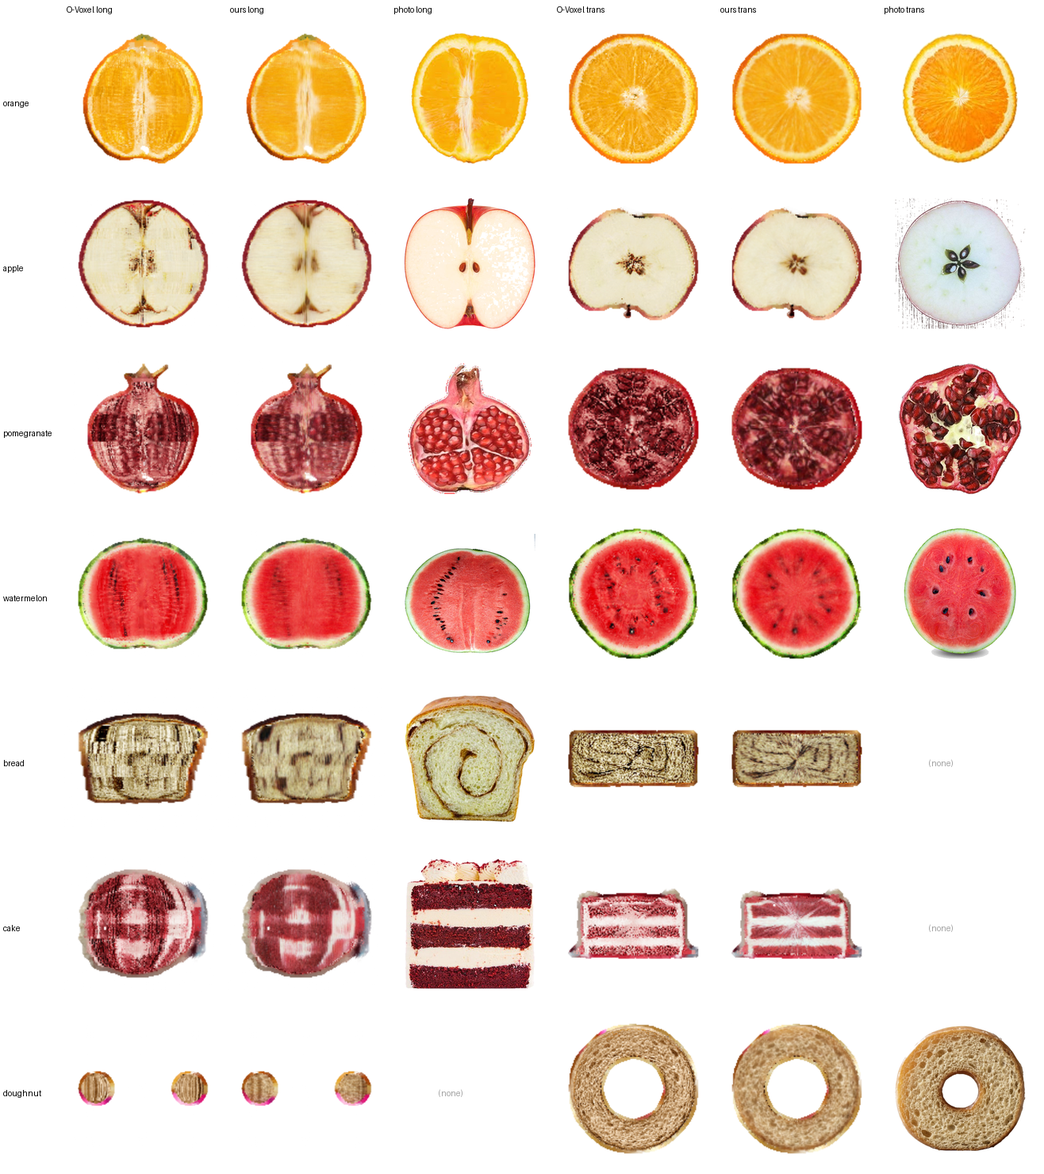
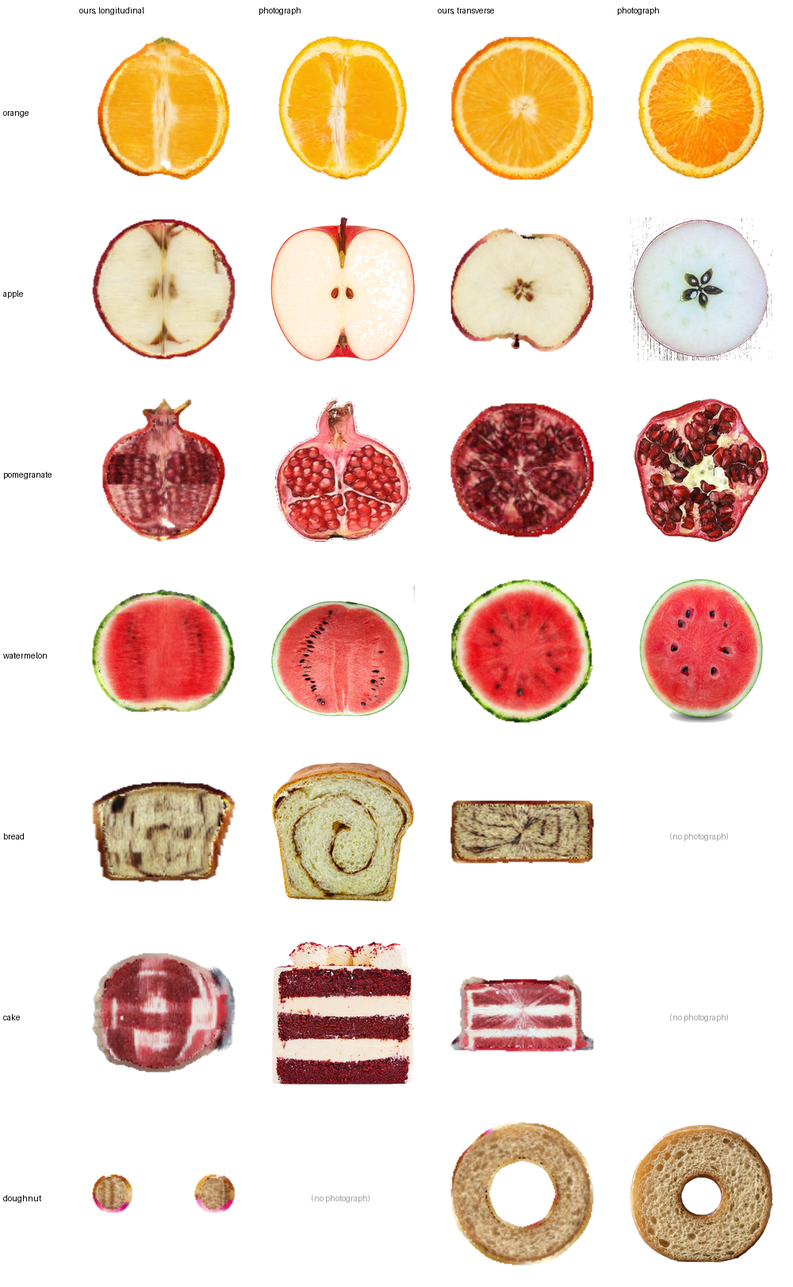
3dfusion: the pipeline as states of the orange's arrays; the seven-object figure without the carrier

diff --git a/3dfusion.html b/3dfusion.html
@@ -173,7 +173,7 @@ On held-out photographs the priors never saw, the lifted orange scores 0.112&nbs
 
 <h2 id="method">3&ensp;Method</h2>
 
-<p class="lead">Figure&nbsp;2 is the whole of it. The carrier is fitted first (section&nbsp;3.1, restated from the superseded paper). Its interior is then sampled anew from a product of two single-image diffusion priors on a cylindrical state, with the carrier&#8217;s layout and shell as data terms (sections&nbsp;3.2&ndash;3.4), and written back into the carrier&#8217;s cells (section&nbsp;3.5). The cut operator and the solver interface are the carrier&#8217;s and are not touched.</p>
+<p class="lead">Figure&nbsp;2 is the whole of it, and Figure&nbsp;3 is the same pipeline as the states of one object&#8217;s arrays. The carrier is fitted first (section&nbsp;3.1, restated from the superseded paper). Its interior is then sampled anew from a product of two single-image diffusion priors on a cylindrical state, with the carrier&#8217;s layout and shell as data terms (sections&nbsp;3.2&ndash;3.4), and written back into the carrier&#8217;s cells (section&nbsp;3.5). The cut operator and the solver interface are the carrier&#8217;s and are not touched.</p>
 
 <figure class="flow" style="margin:16px 0 26px">
 <svg viewBox="0 0 960 520" xmlns="http://www.w3.org/2000/svg" font-family="Charter,Georgia,serif" font-size="13" role="img" aria-label="the pipeline: two photograph families become two single-image priors; the carrier is fitted and sampled into a cylindrical state; one chain denoises both families on that state and writes the interior back into the lattice, which is cut in closed form">
@@ -244,6 +244,11 @@ On held-out photographs the priors never saw, the lifted orange scores 0.112&nbs
 <figcaption><span class="fnum">Figure 2</span><br><strong>The pipeline.</strong> Two photograph families become two single-image priors, the longitudinal one on canonical-frame images and the transverse one on polar strips. The carrier is fitted first and sampled into one cylindrical state with its interior mask. One reverse chain then denoises both families on that same state: each family reads its exact slices, the two clean estimates are combined by the radius rule of equation&nbsp;(6), the carrier&#8217;s low-pass is pinned on the longitudinal planes and its shell is never written, and the state is re-noised for the next step. At the end the interior is written into the carrier&#8217;s cells once, gated by measurement, and read by the carrier&#8217;s own closed-form cut.</figcaption>
 </figure>
 
+<figure style="margin:16px 0 26px">
+  <img src="assets/x3d_states.png" style="width:100%;border-radius:4px" alt="the pipeline as states of the orange's own arrays: photograph, carrier, noised state, each family's estimate, the other family's estimate on the same plane, the combined estimate, the final, and the lattice read back">
+  <figcaption><span class="fnum">Figure 3</span><br><strong>The pipeline as states of the orange&#8217;s own arrays.</strong> Top, one longitudinal plane; bottom, one transverse plane as the polar strip the transverse prior works on. <strong>(a)</strong> a training photograph, canonical and unwrapped; <strong>(b)</strong> the carrier sampled into the cylinder &mdash; the block tiling is visible; <strong>(c)</strong> the state noised to \(t_0=0.3\,T\), the outside under the same noise; <strong>(d)</strong> at one step of the chain, each family&#8217;s own clean estimate; <strong>(e)</strong> the other family&#8217;s estimate read on the same plane &mdash; the two agree on layout and colour and differ in what each can see, the columella above, the membranes below; <strong>(f)</strong> the combination of equation&nbsp;(6) with the carrier&#8217;s low-pass pinned and its shell kept; <strong>(g)</strong> the final state; <strong>(h)</strong> the interior written into the lattice cells once and read back through the carrier&#8217;s own sampling, the transverse one as the disc a cut would show.</figcaption>
+</figure>
+
 <h3>3.0&ensp;Notation</h3>
 
 <div class="tw"><table>
@@ -287,11 +292,11 @@ $$ \mathcal{L} = \sum_{j}
 
 <p>with the nominal depth of every plane replaced by a random variable so that the supervised supports union to a slab, and \(\mathcal{L}_{\mathrm{sec}}\) an SSIM, pixel and band-distribution term over crops inside the face&#8217;s own silhouette. No perceptual network enters the objective. What this fits is exactly what section&nbsp;3.2 keeps: the layout and colour of the interior, the skin, and a texture that is an average over specimens on the supervised planes and a block-tiled average between them.</p>
 
-<p><strong>Closed-form planar cutting.</strong> Cells crossed by a plane \(\Pi\) are selected in parallel by the separating-axis test, \(\mathcal{B} = \{ i : |\mathbf{n}^\top\mathbf{c}_i + d| \le \tfrac{1}{2}h\sum_a|n_a| \}\); within each, the twelve cell edges straddling the plane are solved for their exact roots, \(\mathbf{v}_e = \mathbf{a}_e + t_e(\mathbf{b}_e-\mathbf{a}_e)\), \(t_e = -(\mathbf{n}^\top\mathbf{a}_e + d)/\mathbf{n}^\top(\mathbf{b}_e-\mathbf{a}_e)\), sorted into one convex polygon per cell. Face-adjacent cells share their roots exactly, so the union is closed and 2-manifold (Proposition&nbsp;1 of the carrier paper), the cost is \(\mathcal{O}(|\mathcal{B}|)\) (Proposition&nbsp;2), and every vertex satisfies its plane equation to \(8.88\times10^{-16}\). Vertex colours come from equation&nbsp;(1); after section&nbsp;3.5 they come from the lifted interior through the same equation. Figure&nbsp;3 shows the operator&#8217;s four states on real data.</p>
+<p><strong>Closed-form planar cutting.</strong> Cells crossed by a plane \(\Pi\) are selected in parallel by the separating-axis test, \(\mathcal{B} = \{ i : |\mathbf{n}^\top\mathbf{c}_i + d| \le \tfrac{1}{2}h\sum_a|n_a| \}\); within each, the twelve cell edges straddling the plane are solved for their exact roots, \(\mathbf{v}_e = \mathbf{a}_e + t_e(\mathbf{b}_e-\mathbf{a}_e)\), \(t_e = -(\mathbf{n}^\top\mathbf{a}_e + d)/\mathbf{n}^\top(\mathbf{b}_e-\mathbf{a}_e)\), sorted into one convex polygon per cell. Face-adjacent cells share their roots exactly, so the union is closed and 2-manifold (Proposition&nbsp;1 of the carrier paper), the cost is \(\mathcal{O}(|\mathcal{B}|)\) (Proposition&nbsp;2), and every vertex satisfies its plane equation to \(8.88\times10^{-16}\). Vertex colours come from equation&nbsp;(1); after section&nbsp;3.5 they come from the lifted interior through the same equation. Figure&nbsp;4 shows the operator&#8217;s four states on real data.</p>
 
 <figure style="margin:16px 0 26px">
   <img src="assets/cutstates.jpg?v=s_v2" style="width:100%;border-radius:4px" alt="the planar cut as four states of the lattice">
-  <figcaption><span class="fnum">Figure 3</span><br><strong>The carrier&#8217;s cut, as four states of its own lattice.</strong> <strong>(a)</strong> the plane against 770,182 solid cells, of which 17,855 satisfy the crossing test; <strong>(b)</strong> one crossed cell, its twelve edges, the roots and the convex polygon they bound; <strong>(c)</strong> the sign field over one slice, labelled into two components; <strong>(d)</strong> the exposed face, coloured by the interior field. This operator is untouched by the rest of the paper; what changes is the colour it reads.</figcaption>
+  <figcaption><span class="fnum">Figure 4</span><br><strong>The carrier&#8217;s cut, as four states of its own lattice.</strong> <strong>(a)</strong> the plane against 770,182 solid cells, of which 17,855 satisfy the crossing test; <strong>(b)</strong> one crossed cell, its twelve edges, the roots and the convex polygon they bound; <strong>(c)</strong> the sign field over one slice, labelled into two components; <strong>(d)</strong> the exposed face, coloured by the interior field. This operator is untouched by the rest of the paper; what changes is the colour it reads.</figcaption>
 </figure>
 
 <h3>3.2&ensp;The interior prior: a product of two single-image priors over slices</h3>
@@ -318,7 +323,7 @@ $$ \nabla_{x}\log p_t(x_t)\;\approx\;\sum_{k} S_{\varphi_k}^{\!\top}\, s_L\!\big
 
 <figure style="margin:16px 0 26px">
   <img src="assets/x3d_polar.png" style="width:100%;border-radius:4px" alt="a transverse photograph and its polar unwrap; the segment membranes become parallel vertical stripes">
-  <figcaption><span class="fnum">Figure 4</span><br><strong>Why polar.</strong> A transverse photograph and its unwrap into \((r,\varphi)\), rows \(r\) from the axis outward, columns \(\varphi\). The segment membranes &mdash; thin radial lines whose organisation is global and beyond any patch in Cartesian coordinates &mdash; are a row of parallel stripes here, and the rind is a horizontal band. The transverse prior is trained on these strips (Figure&nbsp;4); the wrap-around in \(\varphi\) is a free and exact augmentation.</figcaption>
+  <figcaption><span class="fnum">Figure 5</span><br><strong>Why polar.</strong> A transverse photograph and its unwrap into \((r,\varphi)\), rows \(r\) from the axis outward, columns \(\varphi\). The segment membranes &mdash; thin radial lines whose organisation is global and beyond any patch in Cartesian coordinates &mdash; are a row of parallel stripes here, and the rind is a horizontal band. The transverse prior is trained on these strips (Figure&nbsp;5); the wrap-around in \(\varphi\) is a free and exact augmentation.</figcaption>
 </figure>
 
 <p><strong>One step.</strong> At level \(t\), each family predicts its noise on every one of its planes and hence its clean estimate, \(\hat x_0^L = (x_t - \sqrt{1-\bar\alpha_t}\,\epsilon_L)/\sqrt{\bar\alpha_t}\) assembled from the longitudinal slices and \(\hat x_0^T\) from the transverse ones. The product prior&#8217;s step is one line,</p>
@@ -330,7 +335,7 @@ $$ \hat x_0 \;=\; w(r)\,\hat x_0^{L} \;+\; \big(1-w(r)\big)\,\hat x_0^{T},
 
 <p>the longitudinal family leading at the axis, where it sees the columella as a continuous strip and the transverse family sees only a disc, and the transverse family leading away from it, where it sees the membranes as stripes and the longitudinal family sees them edge-on. \(R_0 = 0.15\,E\), \(w_\infty = 0.1\); both are read off the sweeps of section&nbsp;4.2 and are the same for every object. The state is then re-noised deterministically&nbsp;[68] with the noise direction consistent with the combined estimate, \(\bar\epsilon = (x_t - \sqrt{\bar\alpha_t}\,\hat x_0)/\sqrt{1-\bar\alpha_t}\), \(x_{t'} = \sqrt{\bar\alpha_{t'}}\,\hat x_0 + \sqrt{1-\bar\alpha_{t'}}\,\bar\epsilon\).</p>
 
-<p><strong>Data terms.</strong> The carrier supplies two things the patch prior cannot. Its shell is observed and is never written: outside the interior mask the state is the carrier&#8217;s value under the forward noise of the current level, with one fixed noise draw, so every plane looks like a properly noised image and the interior is generated against a true boundary&nbsp;[77]. Its layout &mdash; the columella&#8217;s position, the pith band, the colour &mdash; is pinned by ILVR&nbsp;[69] on every longitudinal plane at every step: \(\hat x_0 \leftarrow \hat x_0 - \Phi_\sigma(\hat x_0) + \Phi_\sigma(A^{\mathrm{carrier}})\) with \(\sigma = 16\) px, which is above the 4&ndash;8 px scale of the carrier&#8217;s block tiling and below that of anything the prior is asked to generate. A patch prior has no global layout of its own &mdash; from 90% noise it makes blobs (Figure&nbsp;6) &mdash; and this is where the layout comes from; it is also why the chain starts at \(t_0 = 0.3\,T\) rather than from noise: the less of the carrier&#8217;s structure the prior is asked to reinvent, the better (section&nbsp;4.2).</p>
+<p><strong>Data terms.</strong> The carrier supplies two things the patch prior cannot. Its shell is observed and is never written: outside the interior mask the state is the carrier&#8217;s value under the forward noise of the current level, with one fixed noise draw, so every plane looks like a properly noised image and the interior is generated against a true boundary&nbsp;[77]. Its layout &mdash; the columella&#8217;s position, the pith band, the colour &mdash; is pinned by ILVR&nbsp;[69] on every longitudinal plane at every step: \(\hat x_0 \leftarrow \hat x_0 - \Phi_\sigma(\hat x_0) + \Phi_\sigma(A^{\mathrm{carrier}})\) with \(\sigma = 16\) px, which is above the 4&ndash;8 px scale of the carrier&#8217;s block tiling and below that of anything the prior is asked to generate. A patch prior has no global layout of its own &mdash; from 90% noise it makes blobs (Figure&nbsp;7) &mdash; and this is where the layout comes from; it is also why the chain starts at \(t_0 = 0.3\,T\) rather than from noise: the less of the carrier&#8217;s structure the prior is asked to reinvent, the better (section&nbsp;4.2).</p>
 
 <div class="tw" style="font-family:ui-monospace,Menlo,monospace;font-size:13px;line-height:1.55;border:1px solid var(--line);border-radius:4px;padding:14px 16px;margin:18px 0">
 <strong style="font-family:inherit">Algorithm 1</strong>&ensp;The interior from two cut families<br>
@@ -374,11 +379,11 @@ $$ \hat x_0 \;=\; w(r)\,\hat x_0^{L} \;+\; \big(1-w(r)\big)\,\hat x_0^{T},
 <tr><td><strong>the cylinder, section 3.3</strong></td><td class="win">0.112</td><td class="win">0.062</td><td class="win">0.087</td></tr>
 </tbody></table></div>
 
-<p>Table&nbsp;1 is the comparison. The cylinder is below the carrier on both faces and the mean, with honest unconditional priors and nothing copied; the colour of its flesh is the photographs&#8217; (value 0.962 against 0.961), its horizontal banding is below the photographs&#8217; (0.0068 against 0.0079; the carrier 0.0123), and it has no block tiling. Every Cartesian arm is above the carrier. Figure&nbsp;5 shows the faces the numbers are distances between.</p>
+<p>Table&nbsp;1 is the comparison. The cylinder is below the carrier on both faces and the mean, with honest unconditional priors and nothing copied; the colour of its flesh is the photographs&#8217; (value 0.962 against 0.961), its horizontal banding is below the photographs&#8217; (0.0068 against 0.0079; the carrier 0.0123), and it has no block tiling. Every Cartesian arm is above the carrier. Figure&nbsp;6 shows the faces the numbers are distances between.</p>
 
 <figure style="margin:16px 0 26px">
   <img src="assets/x3d_faces.png" style="width:100%;border-radius:4px" alt="transverse and longitudinal faces: the carrier, the lift with two prior lengths, a held-out photograph">
-  <figcaption><span class="fnum">Figure 5</span><br><strong>Cut faces in the photographs&#8217; canonical frame.</strong> Transverse above, longitudinal below: the carrier, the lift with the longitudinal prior at thirty thousand and at eight thousand steps, and a held-out photograph of a different orange. Segment membranes in the right number, a continuous columella, vesicle grain, the photographs&#8217; colour; faint streaks along \(z\) remain on the longitudinal face.</figcaption>
+  <figcaption><span class="fnum">Figure 6</span><br><strong>Cut faces in the photographs&#8217; canonical frame.</strong> Transverse above, longitudinal below: the carrier, the lift with the longitudinal prior at thirty thousand and at eight thousand steps, and a held-out photograph of a different orange. Segment membranes in the right number, a continuous columella, vesicle grain, the photographs&#8217; colour; faint streaks along \(z\) remain on the longitudinal face.</figcaption>
 </figure>
 
 <h3>4.2&ensp;Ablations, on the orange</h3>
@@ -399,25 +404,25 @@ $$ \hat x_0 \;=\; w(r)\,\hat x_0^{L} \;+\; \big(1-w(r)\big)\,\hat x_0^{T},
 <tr><td>the residual DC shrink: global mean offset / post-hoc low-pass swap / ILVR</td><td colspan="3" class="mut">over-corrects and clips / colour right, texture &minus;12% / colour right, texture kept</td><td>only the in-chain constraint keeps both</td></tr>
 </tbody></table></div>
 
-<p><strong>The starting noise has a floor and it is not zero.</strong> The honest longitudinal prior has no layout of its own: from 90% noise it draws orange blobs on white (Figure&nbsp;6), and everything global in the result comes from the carrier through the constraint of section&nbsp;3.3. The held-out distance therefore falls monotonically as \(t_0\) is lowered from 0.9 to 0.3, is flat from 0.3 to 0.1, and must turn back toward the carrier&#8217;s 0.113 as \(t_0\to0\). The prior is asked to add texture and local structure under a layout it did not make, and that is what it is good at.</p>
+<p><strong>The starting noise has a floor and it is not zero.</strong> The honest longitudinal prior has no layout of its own: from 90% noise it draws orange blobs on white (Figure&nbsp;7), and everything global in the result comes from the carrier through the constraint of section&nbsp;3.3. The held-out distance therefore falls monotonically as \(t_0\) is lowered from 0.9 to 0.3, is flat from 0.3 to 0.1, and must turn back toward the carrier&#8217;s 0.113 as \(t_0\to0\). The prior is asked to add texture and local structure under a layout it did not make, and that is what it is good at.</p>
 
 <figure style="margin:16px 0 26px">
   <img src="assets/x3d_long_8k_30k.png" style="width:100%;border-radius:4px" alt="the longitudinal prior alone, restoring a carrier slice from three noise levels, at 8k and 30k steps">
-  <figcaption><span class="fnum">Figure 6</span><br><strong>The longitudinal prior alone, in-plane.</strong> A carrier slice restored from 30%, 50% and 90% noise by the prior at eight and at thirty thousand steps. At 30&ndash;50% the longer prior draws segment walls and a crisp columella where the shorter draws mush; at 90% both collapse &mdash; a patch prior has no global layout, and the carrier is where the layout comes from.</figcaption>
+  <figcaption><span class="fnum">Figure 7</span><br><strong>The longitudinal prior alone, in-plane.</strong> A carrier slice restored from 30%, 50% and 90% noise by the prior at eight and at thirty thousand steps. At 30&ndash;50% the longer prior draws segment walls and a crisp columella where the shorter draws mush; at 90% both collapse &mdash; a patch prior has no global layout, and the carrier is where the layout comes from.</figcaption>
 </figure>
 
-<p><strong>Training length is a per-family choice.</strong> The longitudinal prior improves from 8k to 30k on every column. The polar prior goes the other way from 4k on: at 30k its transverse faces show segments in a fixed number at even spacing, the layout of its three strips memorised, and the held-out distance rises with every step (Figure&nbsp;7). Neither curve is the other&#8217;s, and a single training length for both would have hidden one of them.</p>
+<p><strong>Training length is a per-family choice.</strong> The longitudinal prior improves from 8k to 30k on every column. The polar prior goes the other way from 4k on: at 30k its transverse faces show segments in a fixed number at even spacing, the layout of its three strips memorised, and the held-out distance rises with every step (Figure&nbsp;8). Neither curve is the other&#8217;s, and a single training length for both would have hidden one of them.</p>
 
 <figure style="margin:16px 0 26px">
   <img src="assets/x3d_polar_overfit.png" style="width:100%;border-radius:4px" alt="transverse faces with the polar prior at 8k and at 30k steps, beside the carrier and a held-out photograph">
-  <figcaption><span class="fnum">Figure 7</span><br><strong>The polar prior overtrained.</strong> The carrier, the lift with the polar prior at eight and at thirty thousand steps, and a held-out photograph. At 30k the membranes are fixed in number and evenly spaced: the three training strips, reproduced.</figcaption>
+  <figcaption><span class="fnum">Figure 8</span><br><strong>The polar prior overtrained.</strong> The carrier, the lift with the polar prior at eight and at thirty thousand steps, and a held-out photograph. At 30k the membranes are fixed in number and evenly spaced: the three training strips, reproduced.</figcaption>
 </figure>
 
-<p><strong>A conditioned prior that was a copier.</strong> Before the cylinder, each family&#8217;s prior took the other family&#8217;s view as three extra input channels, degraded at training by a mild blur and noise. Figure&nbsp;8 is the test that should have been run first: fed its own input as the condition, every such prior reproduces it; fed zeros, every one collapses to noise blobs. The degradation was too weak and the answer leaked through the condition. Every transverse face that had looked right under those priors was the carrier&#8217;s own layout arriving through the condition channel &mdash; and in the Cartesian sampler, where the transverse condition came from the longitudinal family, the segment membranes vanished and no sync weight, radius rule or constraint could bring them back (Table&nbsp;2, the five Cartesian rows). The product of experts requires priors; a copier is not one.</p>
+<p><strong>A conditioned prior that was a copier.</strong> Before the cylinder, each family&#8217;s prior took the other family&#8217;s view as three extra input channels, degraded at training by a mild blur and noise. Figure&nbsp;9 is the test that should have been run first: fed its own input as the condition, every such prior reproduces it; fed zeros, every one collapses to noise blobs. The degradation was too weak and the answer leaked through the condition. Every transverse face that had looked right under those priors was the carrier&#8217;s own layout arriving through the condition channel &mdash; and in the Cartesian sampler, where the transverse condition came from the longitudinal family, the segment membranes vanished and no sync weight, radius rule or constraint could bring them back (Table&nbsp;2, the five Cartesian rows). The product of experts requires priors; a copier is not one.</p>
 
 <figure style="margin:16px 0 26px">
   <img src="assets/x3d_copier.png" style="width:100%;border-radius:4px" alt="three cross-conditioned transverse priors restoring a carrier slice with the slice itself as condition and with zeros as condition">
-  <figcaption><span class="fnum">Figure 8</span><br><strong>The copier test.</strong> A carrier transverse slice restored by three cross-conditioned priors &mdash; trained on the declared split at 8k and 30k steps, and on all six photographs &mdash; with the slice itself as the condition and with zeros. With the condition, a cross-section; without it, noise. None of them had learned a prior.</figcaption>
+  <figcaption><span class="fnum">Figure 9</span><br><strong>The copier test.</strong> A carrier transverse slice restored by three cross-conditioned priors &mdash; trained on the declared split at 8k and 30k steps, and on all six photographs &mdash; with the slice itself as the condition and with zeros. With the condition, a cross-section; without it, noise. None of them had learned a prior.</figcaption>
 </figure>
 
 <p><strong>What the numbers could not see.</strong> Three artefacts on the way were invisible to the texture statistic that was steering the work and were caught by the eye and then by a scorer written for each: a colour shift toward grey (the clamp; a flesh-colour scorer), radial spokes on the transverse face from ninety longitudinal planes at ninety brightnesses (a transverse-view scorer), and horizontal bands on the longitudinal face from per-transverse-plane brightness &mdash; the same artefact rotated by ninety degrees, caught by a row-profile scorer. Every number in this section is read beside a composite of the faces; none was believed alone.</p>
@@ -428,7 +433,7 @@ $$ \hat x_0 \;=\; w(r)\,\hat x_0^{L} \;+\; \big(1-w(r)\big)\,\hat x_0^{T},
 
 <figure style="margin:16px 0 26px">
   <img src="assets/six_objects.png" style="width:100%;border-radius:4px" alt="seven objects: the carrier's face, the lifted face and a photograph, for both families">
-  <figcaption><span class="fnum">Figure 9</span><br><strong>Every object, both families.</strong> Left to right: the carrier&#8217;s longitudinal face, the lift&#8217;s, a photograph; then the same for the transverse family. Where a family has no photograph the panel is empty. The orange, apple, pomegranate and doughnut lose the carrier&#8217;s tiling and keep its layout; the watermelon&#8217;s seeds are smeared along \(z\); the bread and the cake are what a bad fit looks like after smoothing.</figcaption>
+  <figcaption><span class="fnum">Figure 10</span><br><strong>Every object, both families.</strong> Left to right: the lift&#8217;s longitudinal face and a photograph, then its transverse face and a photograph. Where a family has no photograph the panel says so. The orange, apple, pomegranate and doughnut keep the carrier&#8217;s layout without its tiling; the watermelon&#8217;s seeds are smeared along \(z\); the bread and the cake are what a bad fit looks like after smoothing. The carrier&#8217;s own faces are in the route page and in the numbers of Table&nbsp;3.</figcaption>
 </figure>
 
 <div class="tw"><p class="tnum">Table 3</p><table>
@@ -443,7 +448,7 @@ $$ \hat x_0 \;=\; w(r)\,\hat x_0^{L} \;+\; \big(1-w(r)\big)\,\hat x_0^{T},
 <tr><td>doughnut</td><td>no longitudinal; trans 1 vs. training</td><td class="win">&mdash; / 0.196 / &mdash;</td><td>&mdash; / 0.256 / &mdash;</td><td>lift</td></tr>
 </tbody></table></div>
 
-<p>Six of seven are below the carrier, and the watermelon is above it, for a reason that is general rather than the watermelon&#8217;s: its fitted interior is already near the real floor &mdash; 0.112 against a floor of 0.097 &mdash; because smooth flesh and discrete high-contrast seeds are what direct fitting does well, and the patch prior smears the seeds along \(z\) and adds texture that is a distance. The bread and the cake are wins of a different kind: their fitted fields are blotches, the lift smooths them, and both remain far from their photographs, which Figure&nbsp;9 shows plainly.</p>
+<p>Six of seven are below the carrier, and the watermelon is above it, for a reason that is general rather than the watermelon&#8217;s: its fitted interior is already near the real floor &mdash; 0.112 against a floor of 0.097 &mdash; because smooth flesh and discrete high-contrast seeds are what direct fitting does well, and the patch prior smears the seeds along \(z\) and adds texture that is a distance. The bread and the cake are wins of a different kind: their fitted fields are blotches, the lift smooths them, and both remain far from their photographs, which Figure&nbsp;10 shows plainly.</p>
 
 <p><strong>The gate.</strong> The rule of section&nbsp;3.5 scores each object against its own training photographs, and its verdict agrees with the held-out one on every object but one: it keeps the lift on the apple, cake, doughnut and pomegranate, refuses it on the watermelon (0.139&nbsp;/&nbsp;0.129 &rarr; 0.143&nbsp;/&nbsp;0.139, clear), and refuses it on the bread by 0.001 (0.3392 &rarr; 0.3403), where the held-out photographs say the lift is better (0.384 &rarr; 0.364). That is a tie at the rule&#8217;s boundary and is reported as one; the rule is not adjusted to pass it.</p>
 
